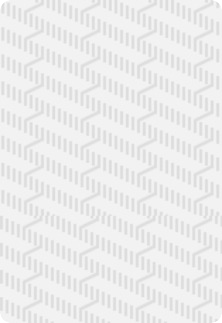
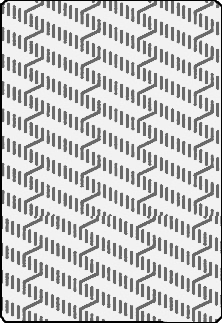
Reworked input and argument checker
Reworked back card texture

diff --git a/src/main.cpp b/src/main.cpp
@@ -1,9 +1,13 @@
 #include "../libs/isNumber.h"
 #include "../libs/str2int.h"
 #include "app.h"
+#include "valid_input.h"
 
 int main(int argc, const char** argv) {
     uint16_t width(1024), height(768);
+    std::string mode;
+    sf::IpAddress ip;
+    bool checkers[2] = {false, false};
 
     if (argc > 0) {
         for (uint8_t i = 1; i < static_cast<uint8_t>(argc); i++) {
@@ -36,11 +40,32 @@ int main(int argc, const char** argv) {
                 break;
             }
             case str2int("-t"):
-            case str2int("--type"):
-                break;
+            case str2int("--type"): {
+                if ((i + 1) < argc) {
+                    std::string input = argv[i + 1];
+                    std::transform(input.begin(), input.end(), input.begin(), ::tolower);
+                    if (input == "server" || input == "client") {
+                        mode = input;
+                        checkers[0] = true;
+                    } else {
+                        std::cout << "Wrong option" << std::endl;
+                    }
+
+                } else {
+                    std::cout << "Invalid expression, requires 1 more argument" << std::endl;
+                }
+            } break;
             case str2int("-i"):
-            case str2int("--ip"):
-                break;
+            case str2int("--ip"): {
+                if ((i + 1) < argc) {
+                    std::string input = argv[i + 1];
+                    ip = input;
+                    checkers[1] = true;
+
+                } else {
+                    std::cout << "Invalid expression, requires 1 more argument" << std::endl;
+                }
+            } break;
             case str2int("-h"):
             case str2int("--help"): {
                 std::cout << "Usage:" << std::endl
@@ -57,6 +82,8 @@ int main(int argc, const char** argv) {
         }
     }
 
+    validate_input(mode, ip, checkers[0], checkers[1]);
+
     Application app(width, height);
-    return app.start();
+    return app.start(mode, ip);
 }

diff --git a/src/app.cpp b/src/app.cpp
@@ -3,7 +3,6 @@
 #include "cards.h"
 #include "tcp.h"
 #include "ui/cardpack.h"
-#include "valid_input.h"
 
 #include <cmath>
 #include <csignal>
@@ -25,22 +24,16 @@ Application::Application(uint16_t width, uint16_t height)
 }
 
 // Starting the main window
-int8_t Application::start() {
-    std::string str_mode;
-
-    validate_input(str_mode, TCP::serverIp);
-
+int8_t Application::start(std::string& mode, sf::IpAddress& serverIp) {
+    TCP::serverIp = serverIp;
     sf::Thread* TCP_Listener;
-
     sf::Clock Clock;
     sf::Clock PacketClock;
     int packet_counter = 0;
-
     sf::Time time;
-
     std::string command = "";
 
-    if (str_mode == "server") {
+    if (mode == "server") {
         TCP_Listener = new sf::Thread(&TCP::ServerListener);
     } else {
         TCP_Listener = new sf::Thread(&TCP::ClientListener);
@@ -64,7 +57,7 @@ int8_t Application::start() {
         }
     };
 
-    if (str_mode == "server") {
+    if (mode == "server") {
         while (!TCP::connected) {}
     }
 
@@ -72,7 +65,7 @@ int8_t Application::start() {
     time_t now;
     std::string dt;
 
-    sf::RenderWindow window(video_mode, std::string(title) + " [" + str_mode + "]", style, settings);
+    sf::RenderWindow window(video_mode, std::string(title) + " [" + mode + "]", style, settings);
     window.setFramerateLimit(48);
     window.setPosition(sf::Vector2<int>(20, 40));
 
@@ -115,7 +108,7 @@ int8_t Application::start() {
                 window.close();
             }
         }
-        // if (str_mode == "server") {
+        // if (mode == "server") {
         // } else {
         // }
 
@@ -124,7 +117,7 @@ int8_t Application::start() {
         window.draw(test);
         window.display();
 
-        if (str_mode == "server") {
+        if (mode == "server") {
             if (PacketClock.getElapsedTime().asSeconds() >= 1) {
                 packet_counter = 0;
                 PacketClock.restart();

diff --git a/src/valid_input.h b/src/valid_input.h
@@ -2,30 +2,40 @@
 #include <SFML/Network.hpp>
 #include <iostream>
 
-void validate_input(std::string& mode, sf::IpAddress& serverIp) {
-    char input(0);
-
-    while (!(tolower(input) == 'c' || tolower(input) == 's')) {
+void validate_input(std::string& mode, sf::IpAddress& serverIp, bool mode_check, bool ip_check) {
+    if (!mode_check) {
+        char input(0);
+    input_loop:
         std::cout << "[S]erver or [C]lient?\n";
         std::cin >> input;
 
         if (!(tolower(input) == 'c' || tolower(input) == 's')) {
             std::cout << "Invalid." << std::endl;
+            goto input_loop;
         } else {
             if (tolower(input) == 'c') {
                 mode = "client";
+                if (!ip_check) {
+                    do {
+                        std::cout << "Type the IPv4 address or name of the server to connect to: ";
+                        std::cin >> serverIp;
+                    } while (serverIp == sf::IpAddress::None);
+                }
+            }
+        }
+
+        if (tolower(input) == 's') {
+            mode = "server";
+        }
+    } else {
+        if (mode == "client") {
+            if (!ip_check) {
                 do {
                     std::cout << "Type the IPv4 address or name of the server to connect to: ";
                     std::cin >> serverIp;
                 } while (serverIp == sf::IpAddress::None);
             }
-
-            if (tolower(input) == 's') {
-                mode = "server";
-            }
-            break;
         }
     }
-
     std::cout << "Selected input: " << mode << std::endl;
 }

diff --git a/src/app.h b/src/app.h
@@ -15,6 +15,6 @@ class Application {
 
 public:
     Application(uint16_t, uint16_t);
-    int8_t start();
+    int8_t start(std::string&, sf::IpAddress&);
     ~Application();
 };
